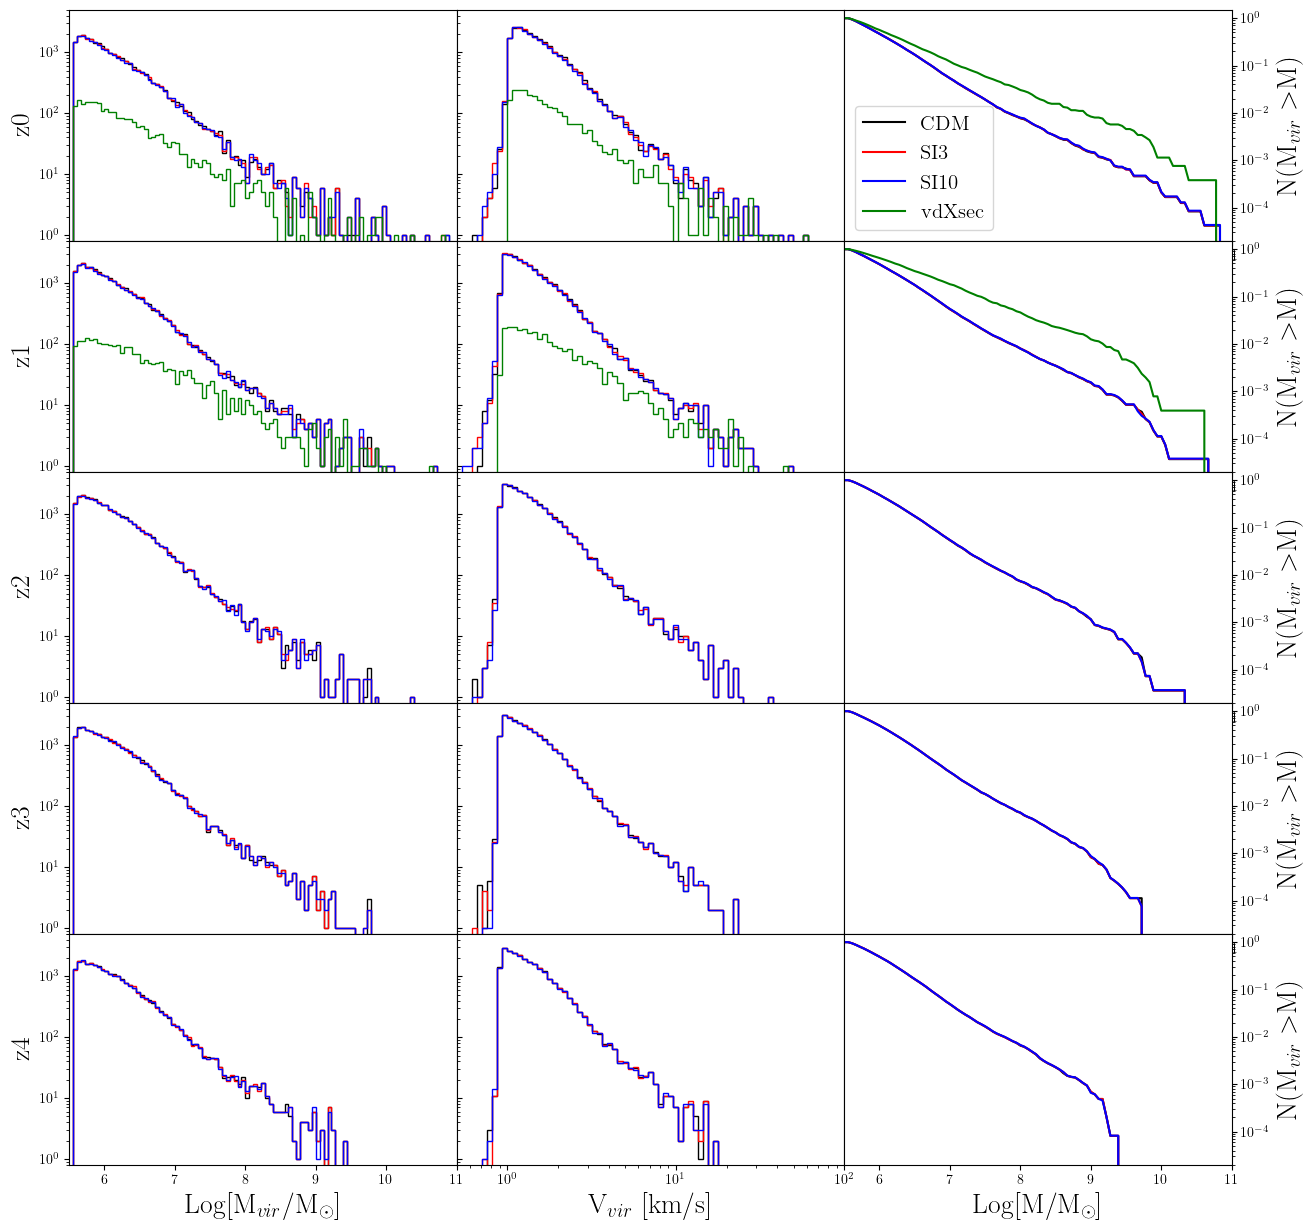
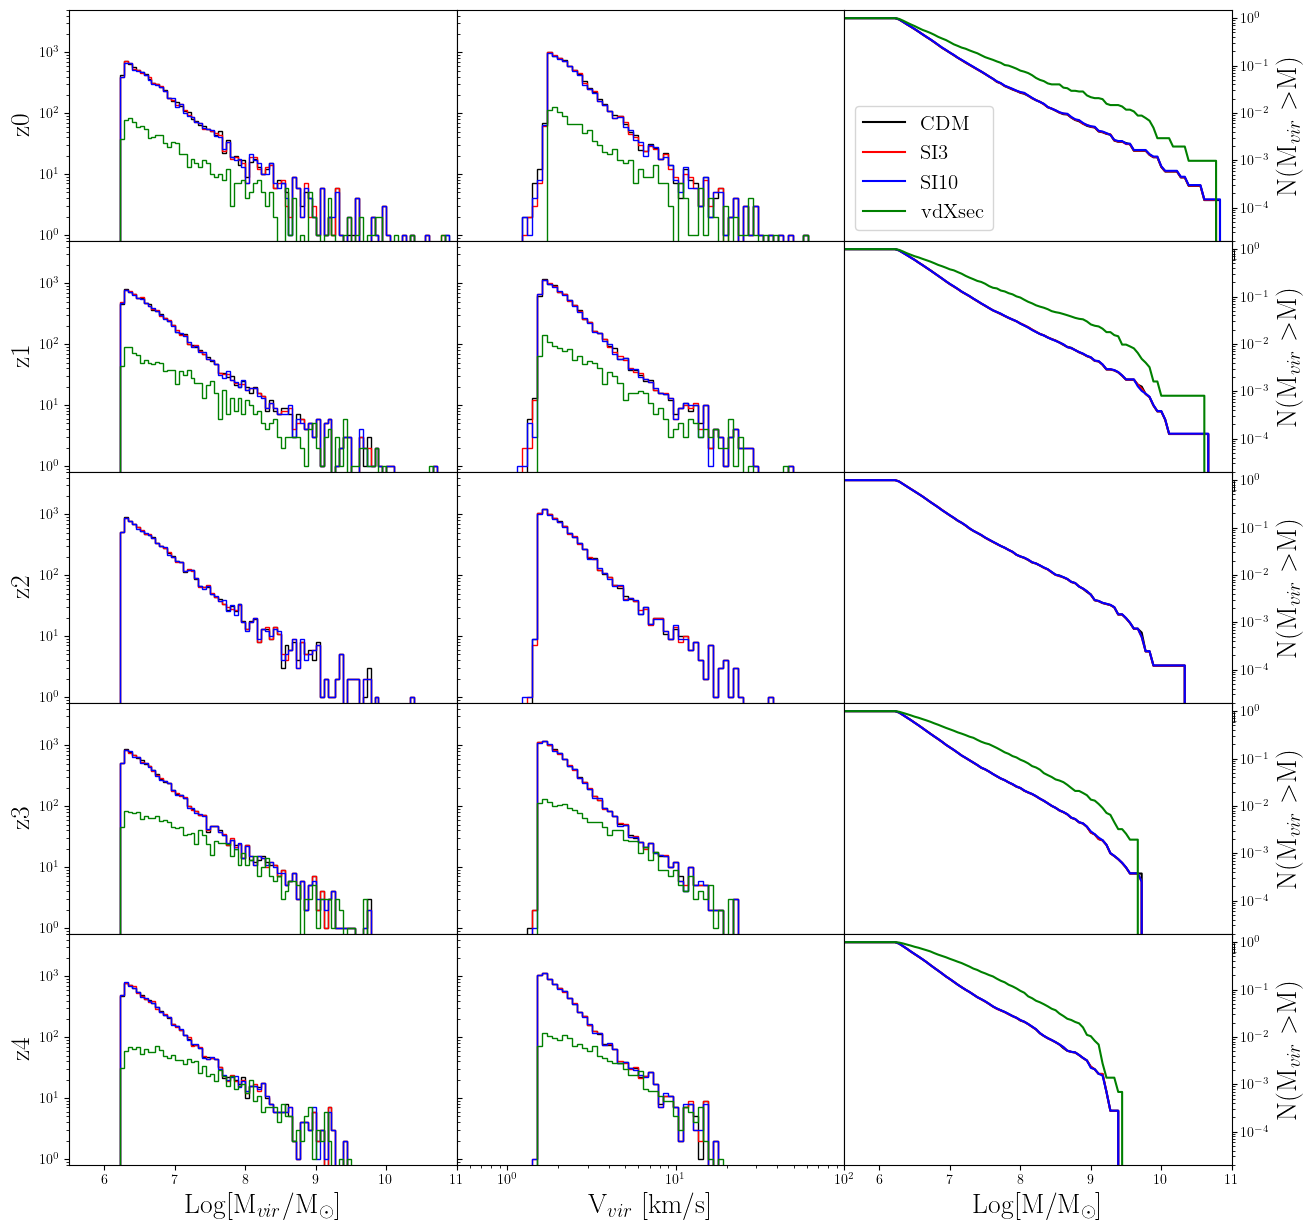
Added script for tracking halo count over full sim history

diff --git a/Code/RedshiftComparison.storm.py b/Code/RedshiftComparison.storm.py
@@ -45,7 +45,7 @@ for z in redshifts:
     R0 = R0[C0<contam_limit]
     R3 = R3[C3<contam_limit]
     R10 = R10[C10<contam_limit]
-    if z in ['z0','z1']:
+    if z != 'z2':
         NV = np.load(f'../DataFiles/Npart.storm.vdXsec.{z}.npy')
         MV = np.load(f'../DataFiles/Mvir.storm.vdXsec.{z}.npy')
         RV = np.load(f'../DataFiles/Rvir.storm.vdXsec.{z}.npy')
@@ -57,7 +57,7 @@ for z in redshifts:
         RV = RV[CV<contam_limit]
     pM0,pM3,pM10,pMV = np.zeros(len(mass_bins)),np.zeros(len(mass_bins)),np.zeros(len(mass_bins)),np.zeros(len(mass_bins))
     masses,profiles = [M0,M3,M10],[pM0,pM3,pM10]
-    if z in ['z0','z1']:
+    if z != 'z2':
         masses.append(MV)
         profiles.append(pMV)
     for i in np.arange(len(mass_bins)):
@@ -77,7 +77,7 @@ for z in redshifts:
     ax[redshifts.index(z)][2].plot(mass_bins,pM3/pM3[0],color='r',label='SI3')
     ax[redshifts.index(z)][2].plot(mass_bins,pM10/pM10[0],color='b',label='SI10')
 
-    if z in ['z0','z1']:
+    if z != 'z2':
         ax[redshifts.index(z)][0].hist(np.log10(MV),mass_bins,histtype='step',color='g',label='vdXsec')
         ax[redshifts.index(z)][1].hist(np.sqrt((MV*G)/(RV*1000)),vel_bins,histtype='step',color='g',label='vdXsec')
         ax[redshifts.index(z)][2].plot(mass_bins,pMV/pMV[0],color='g',label='vdXsec')

diff --git a/Code/HaloCountHistory.py b/Code/HaloCountHistory.py
@@ -1,0 +1,34 @@
+import os,pickle
+import matplotlib.pylab as plt
+
+os.system(f'python Config.py')
+config = pickle.load(open('Config.pickle','rb'))
+
+f,ax=plt.subplots(1,1)
+ax.set_xlabel('Log[Z]')
+ax.set_ylabel(r'N$_{halo}$')
+ax.semilogx()
+
+C,color = ['CDM','SI3','SI10','vdXsec'],['k','r','b','g']
+
+for c in C:
+    path = config['storm']['z0']['sims'][c]
+    os.chdir('/'.join(path.split('/')[:-1]))
+    ld = os.listdir()
+    tsteps = []
+    pre = '.'.join(path.split('/')[-1].split('.')[:-1])+'.'
+    for i in ld:
+        ts = i.lstrip(pre)
+        if len(ts)==6 and ts[0]=='0':
+            tsteps.append(ts)
+    tsteps.sort()
+    z,hnum = [],[]
+    for t in tsteps:
+        for i in ld:
+            if i.lstrip(pre).split('.')[0]==t and i.lstrip(pre).split('.')[-1]=='AHF_halos':
+                z.append(float(i.split('z')[1][:5]))
+                hnum.append(int(os.popen(f'wc -l {i}').read().split(' ')[0]))
+    ax.plot(z,hnum,color=color[C.index(c)],label=c)
+
+ax.legend(loc='upper left')
+f.savefig('../Plots/HaloCountHistory.png',bbox_inches='tight',pad_inches=.1)
